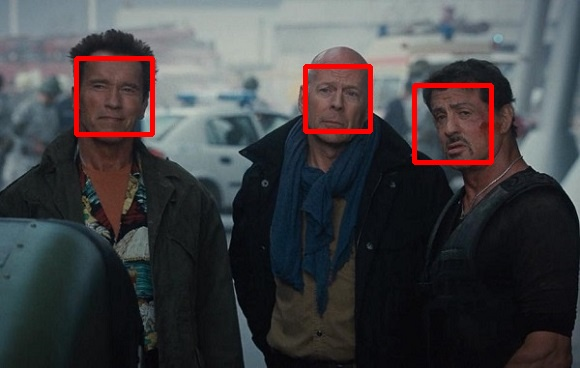
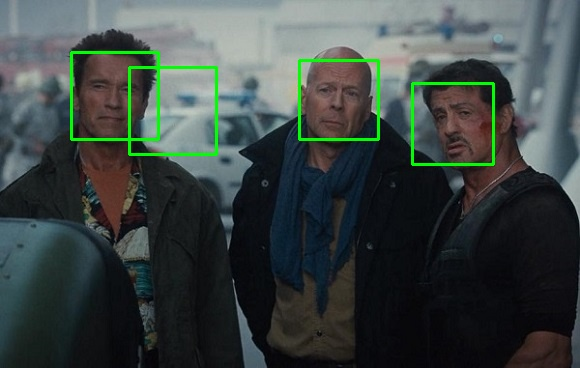
file chooser

Changed region(s): [[0.4966, 0.1495, 0.869, 0.4783], [0.0931, 0.1196, 0.4034, 0.4484]]

diff --git a/src/main/controllers/MainScreenController.java b/src/main/controllers/MainScreenController.java
@@ -15,6 +15,7 @@ import javafx.fxml.FXMLLoader;
 import javafx.fxml.Initializable;
 import javafx.scene.Parent;
 import javafx.scene.Scene;
+import javafx.stage.FileChooser;
 import javafx.stage.Stage;
 import main.utils.Utils;
 import org.opencv.core.*;
@@ -93,37 +94,45 @@ public class MainScreenController implements Initializable
 
     public static String basePath=System.getProperty("user.dir").concat("\\src\\resources\\");
     public static String haar = basePath+"haarcascades/haarcascade_frontalface_alt.xml";
-    public static String inputImg = basePath+"images/input/";
-    public static String outputImg = basePath+"images/output/";
+    public static String inputSrc = basePath+"images/input/";
+    public static String outputSrc = basePath+"images/output/";
 
     @FXML
     void insertImage(ActionEvent event) throws IOException {
-        Mat src = Imgcodecs.imread(inputImg+"111.jpg");
-        faceCascade = new CascadeClassifier(haar);
-        MatOfRect faceDetections = new MatOfRect();
-        faceCascade.detectMultiScale(src, faceDetections);
-        System.out.println(String.format("Detected %s faces",
-                faceDetections.toArray().length));
-        for (Rect rect : faceDetections.toArray()) {
-            Imgproc.rectangle(
-                    src,                                               // where to draw the box
-                    new Point(rect.x, rect.y),                            // bottom left
-                    new Point(rect.x + rect.width, rect.y + rect.height), // top right
-                    new Scalar(0, 255, 0),
-                    3                                                     // RGB colour
-            );
+
+        FileChooser fileChooser = new FileChooser();
+        File selectedFile  = fileChooser.showOpenDialog(null);
+
+        if (selectedFile != null) {
+            String inputImg = inputSrc+selectedFile.getName();
+            Mat src = Imgcodecs.imread(inputImg);
+
+            this.faceCascade = new CascadeClassifier(haar);
+//            this.detectAndDisplay(src);   //only for near face
+
+            MatOfRect faceDetections = new MatOfRect();     //better with far face
+            this.faceCascade.detectMultiScale(src, faceDetections);
+            System.out.println(String.format("Detected %s faces", faceDetections.toArray().length));
+            Rect[] facesArray = faceDetections.toArray();
+            for (int i = 0; i < facesArray.length; i++) {
+                Imgproc.rectangle(src, facesArray[i].tl(), facesArray[i].br(), new Scalar(0, 255, 0), 2);
+            }
+
+            String outputImg = outputSrc + selectedFile.getName().replace(".jpg","_add.jpg");
+            Imgcodecs.imwrite( outputImg, src);
+
+            updateImageView(currentFrame, Utils.mat2Image(Imgcodecs.imread(outputImg)) );
+            System.out.println("Image Processed");
+
+
+        }
+        else {
+            System.out.println("File selection cancelled.");
         }
 
-        // Writing the image
-        Imgcodecs.imwrite(outputImg + "111_add.jpg", src);
-
-        System.out.println("Image Processed");
 
     }
 
-    /**
-     * The action triggered by pushing the button on the GUI
-     */
     @FXML
     protected void startCamera()
     {
@@ -253,13 +262,16 @@ public class MainScreenController implements Initializable
         }
 
         // detect faces
+
         this.faceCascade.detectMultiScale(grayFrame, faces, 1.1, 2, Objdetect.CASCADE_SCALE_IMAGE,
                 new Size(this.absoluteFaceSize, this.absoluteFaceSize), new Size());
 
+        //this.faceCascade.detectMultiScale(grayFrame, faces);
         // each rectangle in faces is a face: draw them!
         Rect[] facesArray = faces.toArray();
-        for (int i = 0; i < facesArray.length; i++)
-            Imgproc.rectangle(frame, facesArray[i].tl(), facesArray[i].br(), new Scalar(0, 255, 0), 3);
+        for (int i = 0; i < facesArray.length; i++) {
+            Imgproc.rectangle(frame, facesArray[i].tl(), facesArray[i].br(), new Scalar(0, 255, 0), 2);
+        }
 
     }
 
